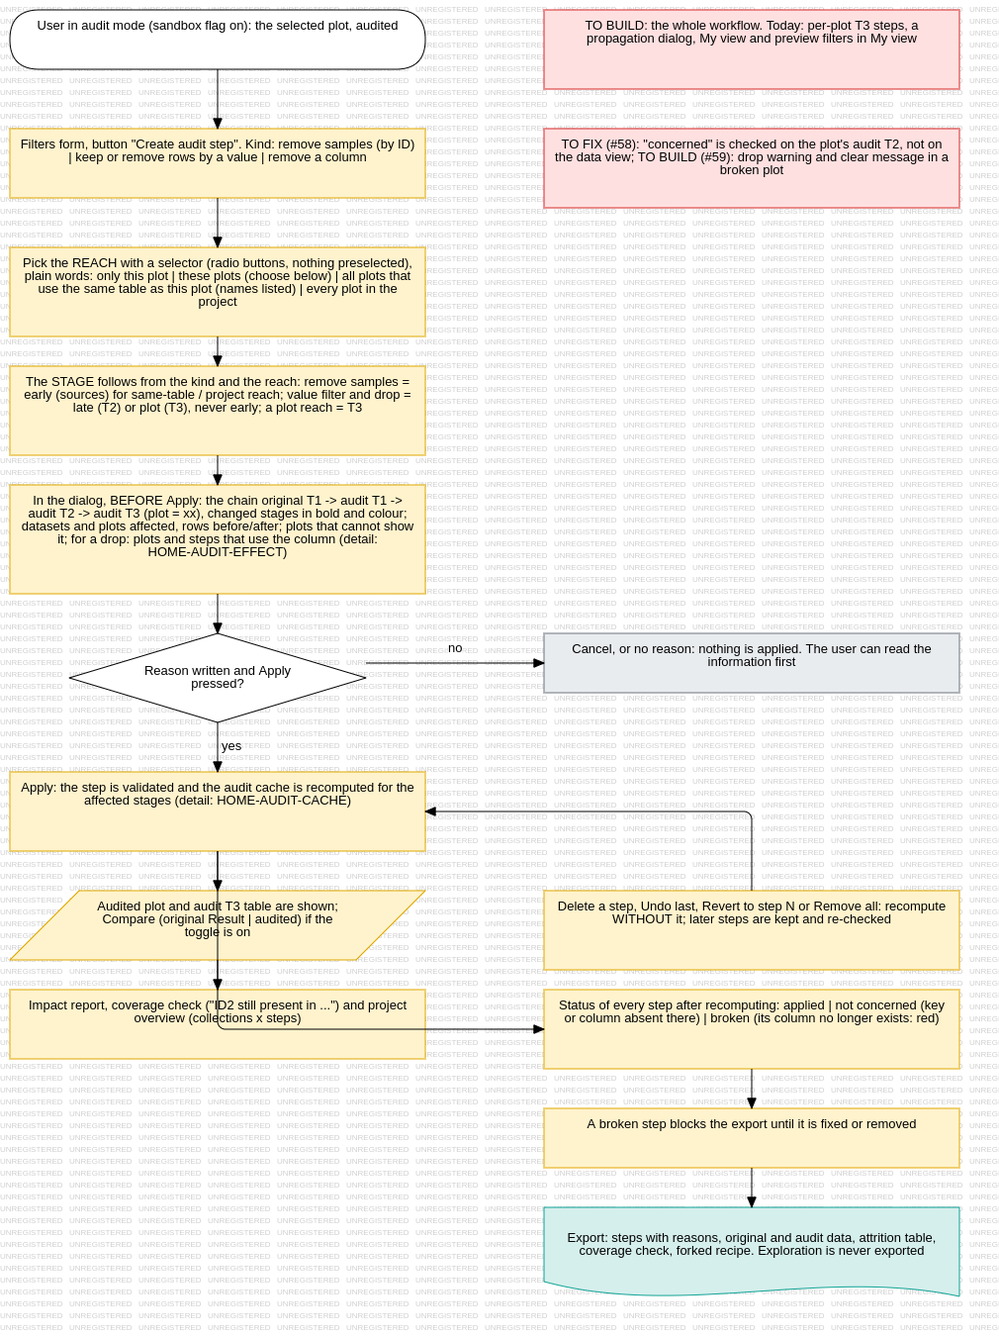
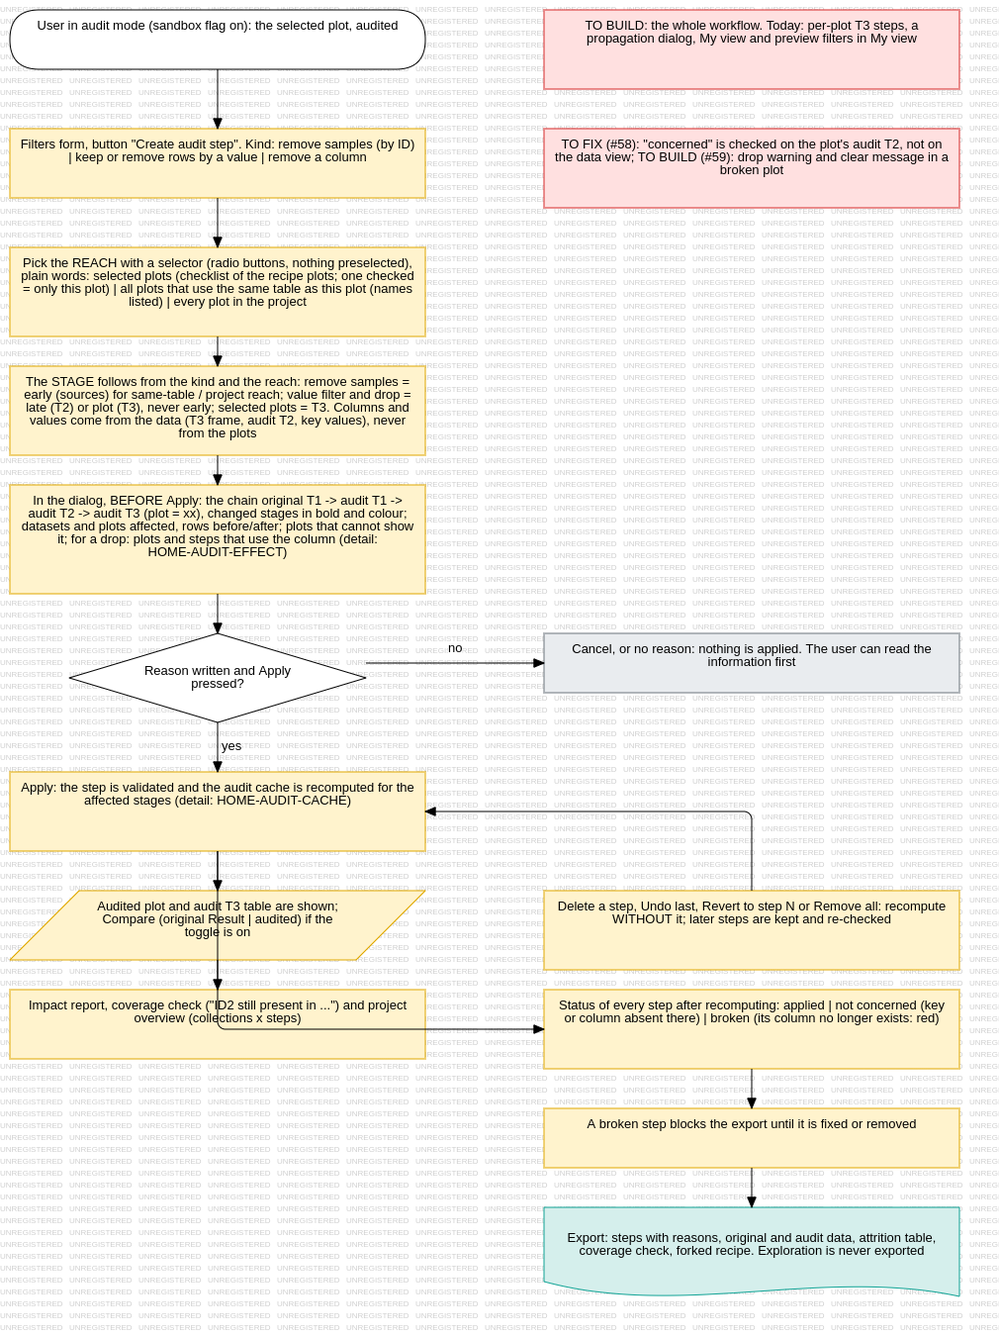
docs(home): keys from is_primary_key, no-join recipes, data-only filter values, definitions
Keys are declared with is_primary_key in the data schema and linked by the join steps (works for
recipes without joins); extract_primary_keys returns [] on tiered join steps (issue #61). Filter
values and columns come from the data, never from the plots. Reach selector with a plot checklist
(three options). Apply is atomic, event log, recipe good practice (same ID name, no rename in
tier-1), definitions of data schema, join, collection and table. ADR-099 and diagrams updated.

Refs: evezeyl/SPARMVET_VIZ#60
Refs: evezeyl/SPARMVET_VIZ#61

Changed region(s): [[0.0307, 0.1867, 0.399, 0.2489], [0.0614, 0.28, 0.3683, 0.3422], [0.0307, 0.3111, 0.0614, 0.3422]]

diff --git a/.claude/design/home_audit_steps.md b/.claude/design/home_audit_steps.md
@@ -19,7 +19,11 @@ repeats on many rows and is not unique in the original data; the audit works on 
 
 | Word | Meaning |
 |---|---|
-| **Collection** | What a plot reads: a join (with its ingredients) or a data schema used directly. Internal word (`target_dataset`). The user sees it as **"the table behind the plot"**. |
+| **Data schema** (an **ingredient** when it is joined) | One source file with its contract (`input_fields`) and its own tier-1 steps. In the recipe: `data_schemas:`, `dataset_id`. |
+| **Join** | A combination of data schemas into one table (`joins:`; older text says "assembly"). |
+| **Collection** | What a plot reads: a **join**, or a **data schema used directly** (a recipe without joins, such as `3_test_no_joins`). Internal word: `target_dataset` in a plot spec, `collection_id` in the code. |
+| **Table** (the user's word) | The data table behind a plot = the T2 of its collection. |
+| **Dataset** | Avoid in new text: the recipe uses it loosely for a data schema (`dataset_id`) and for a plot's target (`target_dataset`). |
 | **Original T1 / T2** | The stored stages of a collection exactly as the recipe built them. Cached, never changed. |
 | **Audit T1 / audit T2** | The stages of a collection **recomputed** with the audit steps applied. With no early step there is no audit T1: the original T1 is used as it is. Nothing is ever copied: a stage is either reused or recomputed. |
 | **Audit T3 (of a plot)** | One plot's frame: its audit T2 plus the steps made for that plot only. Derived, not stored. Exported as T3 data when a plot has its own steps. |
@@ -27,7 +31,8 @@ repeats on many rows and is not unique in the original data; the audit works on 
 | **Audit mode** | The HOME mode in which audit steps are made and removed. (Earlier drafts: "Audit workspace".) |
 | **Filters** | The filter form (same widgets everywhere). In Exploration it makes a preview; in audit mode the same form creates an audit step (section 3). |
 | **Validated step** | An audit step applied with its reason. No draft list: a step cannot be applied without a reason and the Apply press, and removing a wrong step is the undo. |
-| **Key family** | The columns that identify the same entity across the recipe, found from the join steps: the connected set of (data schema, column) pairs linked by join equalities (`on`, or `left_on` = `right_on`). Example: `sample_id`. Never found from column names. |
+| **Key** (entity ID) | The column that identifies the entity (for example `sample_id`), **declared with `is_primary_key: true`** in the data schema's `input_fields`. In long-format tables it repeats on many rows: "key" means the entity identifier, not a unique row key. |
+| **Key family** | The columns that identify the same entity across the recipe: the declared keys, linked when a join equates differently named columns (`on`, or `left_on` = `right_on`). Example: `sample_id`. Never found from column names. |
 
 Lineage chain used everywhere (screens and diagrams): `original T1 -> audit T1 -> audit T2 -> audit T3 (plot = xx)`.
 
@@ -55,6 +60,10 @@ Audit mode is not a new central page. It reuses what HOME already has, so very l
   the two behave differently** (preview = lazy filter on the shown table; audit step = recomputation through the
   lineage, cached). A short note in the code and the docs states the difference. In audit mode the form offers
   the columns of the plot's **audit T2** (the stage steps apply on), not those of the Raw/Result view.
+- **Columns and values come from the data, never from the plots.** For a plot-level step (level 3) from the plot's
+  T3 frame; for a late step (level 2) from the collection's audit T2; for "remove samples" (levels 0-1) the key
+  values found in the sources of the reached collections (distinct, with a search box and a paste-a-list field, since
+  there can be thousands of IDs). The plots only decide *where* a step applies (the reach).
 - To make a step the user chooses the kind, the reach and the reason (sections 4-5), reads the information in
   the dialog (chain, affected plots, warnings, rows before/after) and presses **Apply** (enabled only when a
   reach is chosen and a reason is written; **Cancel** closes the dialog and changes nothing). Apply is the pause
@@ -95,10 +104,15 @@ Two different questions, kept apart:
 
 | Reach (words the user sees) | Remove samples (by ID) | Filter rows by a value / Remove a column |
 |---|---|---|
-| **Only this plot** | level 3: a row filter on the key column of the plot's T3 frame (only if the frame has the key column; otherwise "this plot cannot show it") | level 3 |
-| **These plots (pick from the list)** | level 3 on each picked plot, same rule | level 3 on each picked plot |
+| **Selected plots** (a checklist of the recipe's plots, grouped by tab, the open plot marked; one checked = "only this plot") | level 3 on each selected plot: a row filter on the key column of the plot's T3 frame (only if the frame has it; otherwise "this plot cannot show it") | level 3 on each selected plot |
 | **All plots that use the same table as this plot** (names listed) | **level 1**: early, at the sources of this collection | **level 2**: late, on T2 of this collection, after its tier-2 steps |
 | **Every plot in the project** | **level 0**: early, at the sources of every collection that has the key | level 2 on every collection that has the column (others: "not concerned") |
+
+The checklist is built from the recipe's `analysis_groups`, so the selector adapts to every recipe. **[confirm]** three
+options with a checklist, instead of four options ("only this plot" and "these plots" merged). **[open]** where the
+reach selector sits: in the "New audit step" dialog (proposed: everything to read and decide is in one place, and
+Apply stays disabled until a reach is chosen), or in the Filters panel next to the form, with the dialog only
+confirming.
 
 Numbers 0-3 are the internal names and follow the T numbers (project = 0, T1 = 1, T2 = 2, T3 = 3). The user never
 sees them.
@@ -111,8 +125,8 @@ sees them.
 - **Order of application:** level 0-1 -> the recipe's own tier-1/tier-2 steps -> level 2 -> level 3.
 - **Two plots that share one T2:** a level 2 step changes both; a level 3 step changes only the chosen plot(s).
 - **A single step cannot mix "T3 for this plot and T2 for the others"**: that is two steps. "Everyone except
-  plot P" does not exist at level 2 (T2 is shared); use "These plots" for the others. The plot picker needs a
-  navigator when there are many plots.
+  plot P" does not exist at level 2 (T2 is shared); check the other plots in "Selected plots". The checklist needs
+  a navigator (grouped by tab, with a search box) when there are many plots.
 - T2 is a leaf stage: a level 2 step does not flow into other collections (checked: a join cannot be an
   ingredient of another join; the orchestrator keeps only data schemas as ingredients).
 - Help and user documentation must explain the choice in these words, with the simple advice: **always use the
@@ -156,10 +170,17 @@ sees them.
    originals. The cache only speeds things up; the step list is the source of truth. When the recipe or the data
    change (the original keys change) the audit entries that depended on them are removed at that moment. Location:
    under `user_data` next to `anchors/`, in `audit/<session_key>/`.
-4. **Key mapping.** Computed once per recipe from the join steps (key families, section 2): for each data schema,
-   the key column(s) it carries. A data schema used directly as a plot collection has no join of its own; its key is
-   the one it has where it is an ingredient of a join. A data schema never joined has no declared key: reported
-   "no key declared", never guessed.
+4. **Key mapping.** Built once per recipe from (a) the **declared keys**: every input field with
+   `is_primary_key: true` in a data schema (an existing, documented property of the data contract), and (b) the
+   **join steps** (`action: join`, `on` as a string or a list, `left_on`/`right_on`), which link differently named
+   columns into one key family and flag a join on a column that is not declared (a warning for the recipe author).
+   A collection that is a join takes the keys of its ingredients. A **data schema used directly** (a recipe without
+   any join, such as `3_test_no_joins`) has its declared key and needs no join, so removing samples by ID works there
+   too. A data schema with **no declared key and no join** has no key: reported "no key declared"; for it, "Remove
+   samples" falls back to a row filter on a column the user picks (late stage or plot), with a warning if the
+   table's steps contain aggregations (a filter after an aggregation does not change the aggregate). Never found from
+   column names. **Today's `extract_primary_keys` returns an empty list on tiered join steps (issue #61); the new
+   mapping replaces it and has a test on the shipped recipe.**
 5. **Early insertion (key exclusion only)** is at the sources, **inside the build of each reached collection**,
    on each ingredient that has the key family, before that ingredient's own tier-1 steps. Checked in the code:
    `prepare_ingredient` runs once per collection build, so this is exact (even if a tier-1 step aggregates across
@@ -172,11 +193,19 @@ sees them.
    translator is extended with two modes: shared late insertion (level 2) and early source insertion (levels 0-1).
    The user's recipe files are never edited.
 7. A dataset without the key, or a key value not present, is a **reported no-op** ("0 rows in MLST"), always shown.
-8. **Recipe good practice (docs, later a Blueprint check, not fixed now):** declare in a collection only the
-   ingredients it uses. Today every collection build prepares ALL ingredient schemas, used or not, which makes
-   audit rebuilds slower; the dummy ST22 recipe is an example of what to avoid.
+8. **Recipe good practice (docs now, a Blueprint check later, not enforced in the first version):**
+   (1) declare `is_primary_key: true` on the ID column of every data schema that has one; (2) use the **same column
+   name** for the same ID in all data schemas: different names work (`left_on`/`right_on`, and the key family links
+   them) but then both columns exist after the join and every step must handle both; (3) **never rename or
+   recompute the ID column in tier-1** (an early removal is refused with a message if it is renamed); (4) declare in
+   a join only the ingredients it uses (today every collection build prepares ALL ingredient schemas, used or not,
+   which makes audit recomputation slower; the ST22 dummy recipe is an example to avoid).
 9. Cost: recomputing can be heavy on large data. The dialog warns. The audit is for production-ready figures, not
    for exploring data: limit it to changes that are really needed.
+10. **Apply is atomic.** The step list changes only if the recomputation succeeds. If it fails (an error, a plot
+    left with no rows, a key renamed in tier-1) the previous state stays and the error is shown with the existing
+    error surface (ADR-094). While it runs, the plots show the existing "recalculating" overlay and Apply is
+    disabled; the result of a long computation is not lost if the user waits.
 
 ## 8. Keys: what the ST22 dummy recipe shows (checked in the recipe files, 2026-11-11)
 
@@ -185,7 +214,7 @@ the recipe, its joins and the source file headers:
 
 | Case found | Consequence for the design |
 |---|---|
-| `APEC_STEC_virulence_genes` (reference table, 4 columns) has no sample key | a sample exclusion does not apply; reported as "no key declared, not affected" |
+| `is_primary_key: true` is declared on `sample_id` in 10 of the 11 ST22 data schemas; **not** on `APEC_STEC_virulence_genes` (reference table, 4 columns) | the key mapping starts from the declared keys; a sample exclusion does not apply to the reference table, reported as "no key declared, not affected" |
 | `VirulenceFinder` has `metadata_sample_material` (name contains "sample" but is not a key) | **never detect keys by column name**; take them from the join steps |
 | `AR1_MLST_Serotype_Virulence` uses **left joins** | rows survive if only some ingredients lose the sample: the exclusion must apply to **every ingredient of the collection that has the key**, or rows with empty metadata remain |
 | `Summary` and `Summary_quality` read the **same file** as two ingredients | both are excluded together |
@@ -195,7 +224,7 @@ the recipe, its joins and the source file headers:
 | `sample_id` is **cast to String** at tier-1 in `ResFinder` and in the `ST22_Anchor` join; **no** step renames it (only `VF_gene`, `VF_protein` are renamed) | values are compared as strings; the rename refusal of 7.5 does not fire here |
 | aggregations by sample exist (`count_by_group` by `sample_id` in the `ResFinder` and `ST22_Anchor` tier-2; `summarize` by `sample_id, ST` in the `Summary_phenotype_length_fragmentation` tier-1) but **none aggregates across samples** | exclusion at the sources and on T1 give the same rows here; the test with a recipe that aggregates across samples must be synthetic |
 
-In the first version a key mapping comes from the join steps only; no manual mapping by the user.
+In the first version the key mapping comes from the declared keys and the join steps; no manual mapping by the user.
 
 ## 9. Drop column policy [to build; helper and message: #59]
 
@@ -229,6 +258,9 @@ step, edit a step (= replace it).
 - **Reason** is required when the step is made. Removing a step needs no reason and is recorded.
 - **Who**: the app has no login, so the user may type optional initials once per session (several people can
   work on one project); empty is allowed.
+- **Event log [confirm]:** the step list shows what exists now; an append-only **event log** records every
+  creation, removal and revert (time, initials, the step, the reason of a creation). It is exported with the audit
+  trail, so removing a step to hide it is visible. Without it "removing a step is recorded" would not be true.
 - **Step record** (stored in the session, shown in the list, exported): `id`, `kind`, `reach`, `level`, `targets`
   (collections or plots), `params` (column, operator, value; or key family and values), `reason`, `initials`,
   `created_at`. The **status** (applied / not concerned / broken) is computed, never stored.
@@ -292,6 +324,7 @@ HOME test plan items). Checked list, to re-verify before the code starts.
 | `app/src/server.py`, `app/src/ui.py`, `app/src/bootloader.py`, `sidebar_registry.py`, `app_features_validator.py`, `config/app_features/*.yaml` (8 files), `config/ui/sidebars/home_standard_right.yaml` | audit mode gate; **new validator rules**: comparison requires sandbox, sandbox requires the `audit_stack` slot (`pipeline-exploration-simple`: comparison on, sandbox off, must change); the `audit_stack` slot gets the new content | `test_every_app_features_starts`, `test_app_features_validator`, `test_ui_app_features_masking`, import check |
 | Blueprint (`blueprint_handlers.py`, `wrangle_studio.py`), `data_import_handlers.py` | none by design, but they call the orchestrator | smoke Blueprint tests, import tests |
 | VizFactory | clear message for a plot broken by a drop (#59) | viz_factory tests |
+| `app/modules/session_manager.py` `extract_primary_keys` | replaced by the key mapping (declared keys + join steps), issue #61 | new test on the shipped recipe with the real `ConfigManager` |
 | Naming debt | the flag `t3_sandbox_enabled`, `t3_steps.yaml`, `T3_data_<plot>.tsv`, ghost `t3_*.json`, `t3_audit_engine.py` keep their names (a rename is a separate task using the `renamed_keys` mechanism) | n/a |
 
 **Rules, knowledge, docs (text to rewrite when built)**
@@ -304,7 +337,11 @@ HOME test plan items). Checked list, to re-verify before the code starts.
 `app_features_scoping_guide`, `export_specification`, `design_t3_export_threading`, `reproducible_export_design`),
 `app/src/help/home.md`, `app/README.md`, user guide (`system_transparency`, `audit_pipeline`, `reproducible_plots`,
 `understanding_your_export`), `docs/appendix/FAQ.qmd`, `docs/appendix/data_lifecycle_theater.qmd`,
-`docs/workflows/ui_app_features.qmd`, the HOME test plan items about My view and Compare, ADRs 024, 044, 049, 085, 086,
+`docs/workflows/ui_app_features.qmd`, `docs/user_guide/glossary_and_feedback.qmd` (add data schema, join, table; there is no
+definition of collection or table in the documentation today), `docs/appendix/Standards_yaml.qmd` and
+`docs/foundations/data_contracts_adr.qmd` (`is_primary_key`: today "informational" and "unique identifier"; the
+audit now uses it, and in long format it repeats), `project_conventions.md` (vocabulary), a short "good recipe
+practice" page (section 7.8), the HOME test plan items about My view and Compare, ADRs 024, 044, 049, 085, 086,
 089, 097, 098 (amendment notes), UML (below).
 
 **Older UML elements that describe today's behaviour (kept as built, replaced when the change is built)**
@@ -326,7 +363,9 @@ level 3); a plot left with zero rows; a drop of a used column; a drop of an unus
 steps; session restore against a changed recipe; export after a level 0 step (attrition, coverage, forked recipe
 re-runs to the same result); huge data (warning); cache depth reached; missing audit cache entry (recompute); trial
 computation then Cancel; Remove all steps returns to the originals; stage keys contain the upstream key; comparison
-flag on and sandbox off (validator refuses).
+flag on and sandbox off (validator refuses); a recipe without any join (`3_test_no_joins`) with a declared key; a
+data schema with no declared key; a join on a column that is not declared as a key; recomputation that fails (Apply is
+atomic); a step that leaves a plot with zero rows; a pasted list of thousands of IDs; the plot checklist with many plots.
 
 ## 16. Decided and open
 
@@ -340,10 +379,14 @@ canonical hash, N = 5 by default as a setting, recompute when missing; delete = 
 Revert to step N, Remove all; broken steps block the export; drop policy; project overview and coverage check;
 optional initials on each step.
 
-**Proposed in the review, to confirm [confirm]:** value filters and drops are never early (section 5); the fourth
-reach "These plots (pick)"; key exclusion with reach "only this plot" is a level 3 row filter; the audit table
-stage selector; trial computation for the impact numbers; `comparison_mode_enabled` as a child of the sandbox flag
-and the validator rule for the `audit_stack` slot; legacy step types kept as they are; names with `t3` kept.
+**Confirmed by Eve in the review:** "remove samples" on a plot reach is a level 3 row filter on the key column;
+`comparison_mode_enabled` becomes a child of the sandbox flag and the validator gets the two new rules; filter values
+come from the data, not from the plots.
+
+**Proposed in the review, to confirm [confirm]:** value filters and drops are never early (section 5); the reach
+selector with three options and a plot checklist (section 5); the key mapping from `is_primary_key` plus the join
+steps, and the no-key fallback (section 7.4); the audit table stage selector; the trial computation for the impact
+numbers; the event log; atomic Apply; legacy step types kept as they are; names with `t3` kept.
 
 **Open:**
 1. Exact wording of the reach options and kinds (draft in section 17, to review together).
@@ -351,14 +394,14 @@ and the validator rule for the `audit_stack` slot; legacy step types kept as the
 3. Excluding by a secondary key (Gene) in a later version.
 4. Where the project overview opens (dialog or wide accordion under the table).
 5. What stays of the existing right panel: the "Inherited (Tier 2)" nodes, the filter inventory, the pending badge.
+5b. Where the reach selector sits: in the dialog (proposed) or in the Filters panel (section 5).
 6. The importer's verification legs with levels 0-2 (section 11).
 
-## 17. Wording to review together (draft v2)
+## 17. Wording to review together (draft v3)
 
 Kinds (what the user sees): "Remove samples (by ID)" | "Keep or remove rows by a value" | "Remove a column".
 Reach (selector, nothing preselected; each option lists its plots and their number):
-- "Only this plot" (1 plot: name)
-- "These plots (choose below)" (the picked plots)
+- "Selected plots" (a checklist of the plots of the recipe, grouped by tab; the open plot is marked)
 - "All plots that use the same table as this plot" (N plots: names)
 - "Every plot in the project" (N plots)
 

diff --git a/.claude/knowledge/architecture_decisions.md b/.claude/knowledge/architecture_decisions.md
@@ -4988,8 +4988,9 @@ and a filter built on Raw can be wrong on Result (wide vs long, renamed columns,
    before/after and the warnings, needs a **reason**, and takes effect on **Apply** (Cancel changes nothing).
    Removing a step is the undo (recompute without it; later steps are kept and re-checked; statuses applied / not
    concerned / broken; a broken step blocks the export). Controls: Undo last, Revert to step N, Remove all.
-4. **Reach and stage, four internal levels.** The user picks the **reach** (nothing preselected): only this plot,
-   these plots, all plots that use the same table, every plot in the project. The **stage** follows from the kind of
+4. **Reach and stage, four internal levels.** The user picks the **reach** (nothing preselected): selected plots (a
+   checklist built from the recipe's plots; one checked = only this plot), all plots that use the same table,
+   every plot in the project [confirm: three options with a checklist; where the selector sits is open]. The **stage** follows from the kind of
    step: *remove samples (by ID)* is early, at the sources inside the build of each reached collection (level 0
    project, level 1 this collection); value filters and column drops are late, on T2 (level 2), or on the plot
    frame (level 3); value filters and drops are never early [confirm]. Order: levels 0-1, the recipe's own steps,
@@ -4999,9 +5000,13 @@ and a filter built on Raw can be wrong on Result (wide vs long, renamed columns,
    list of operations that will run); the reason, initials and date are not hashed; the key is stored in the file
    and checked on read. N = 5 recent states by default (a setting); a missing entry is recomputed from the step
    list. The step list is the source of truth.
-6. **Keys come from the join steps**, never from column names (key family = connected (data schema, column) pairs);
-   a key exclusion applies to every ingredient of a reached collection that has the key (left joins); a missing key
-   or value is a reported no-op; a renamed key in tier-1 is refused with a message.
+6. **Keys are declared, not guessed** [confirm]: a key is a field with `is_primary_key: true` in a data schema's
+   `input_fields` (this works in recipes without any join), and the join steps link differently named columns into
+   one key family; never found from column names. A key exclusion applies to every ingredient of a reached collection
+   that has the key (left joins); a data schema with no declared key falls back to a row filter on a column the user
+   picks; a missing key or value is a reported no-op; a renamed key in tier-1 is refused with a message. Recipe
+   practice (documented): same ID name everywhere, `is_primary_key` set, key never renamed in tier-1. Filter
+   columns and values come from the data (T3 frame, audit T2, key values of the sources), never from the plots.
 7. **Project consistency is shown, never silent:** a chain drawing with the changed stages in bold and colour, the
    affected list, a project overview (collections x steps) and a coverage check for key exclusions. Drops are not
    recommended outside plot level; a warning lists the plots and steps that use the column (#59).
@@ -5021,7 +5026,13 @@ keeping My view as a scratchpad without the sandbox flag (plots would change wit
 the original data or the recipe files; early value filters (column names at the sources differ from what the user
 sees).
 
-**Verified facts it rests on (2026-11-11).** `prepare_ingredient` runs once per collection build, so an early step is
+**Added during the review (2026-11-11):** Apply is atomic (the step list changes only if the recomputation
+succeeds); an append-only event log records creations, removals and reverts and is exported [confirm].
+
+**Verified facts it rests on (2026-11-11).** `extract_primary_keys` returns an empty list on tiered join steps,
+verified with the real `ConfigManager` (issue #61), so the key safeguards of ADR-049 do not fire today;
+`is_primary_key: true` is set on `sample_id` in 10 of the 11 ST22 data schemas, not on the reference table; the
+engine accepts `on`, `left_on`/`right_on`; `3_test_no_joins` has a data schema used directly and declares its key. `prepare_ingredient` runs once per collection build, so an early step is
 local to the collections reached; a join cannot be an ingredient of another join (T2 is a leaf); the existing
 translator already forks the join per plot because T2 is shared; `1_test_data_ST22_dummy` has `sample_id` in all
 collections, casts it to String at tier-1 in two places, renames it nowhere, and has no tier-1 step that
